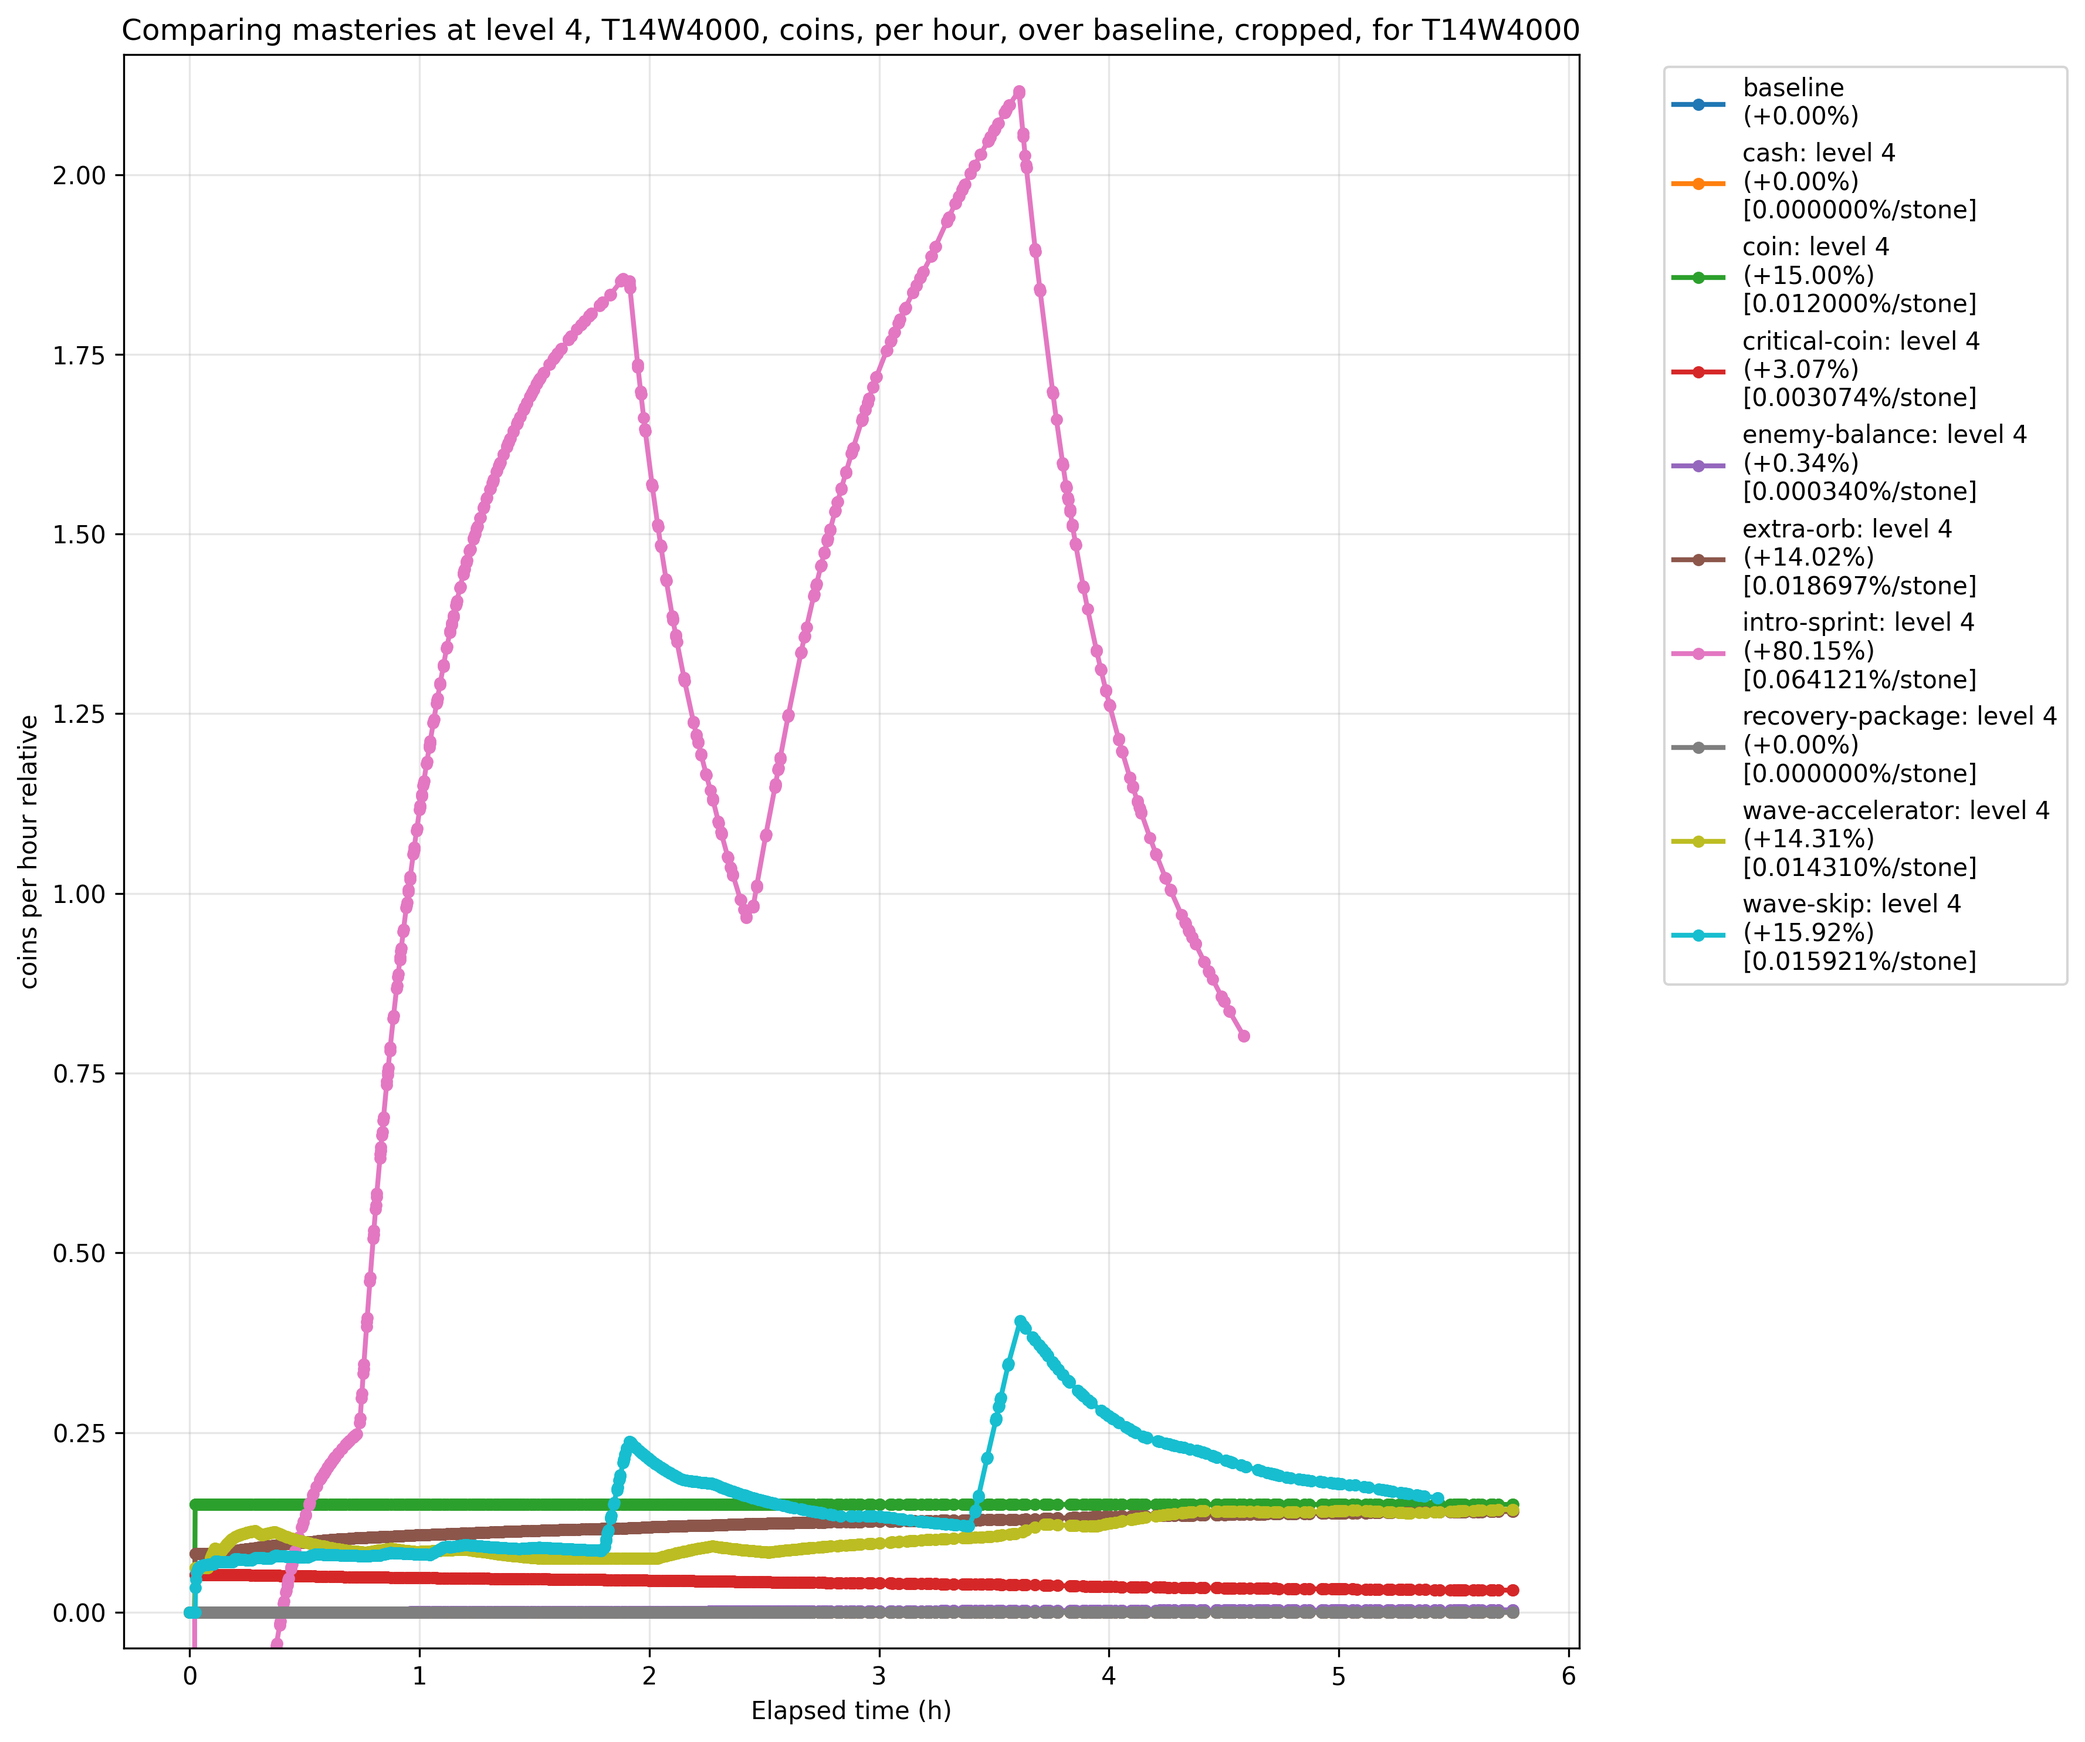
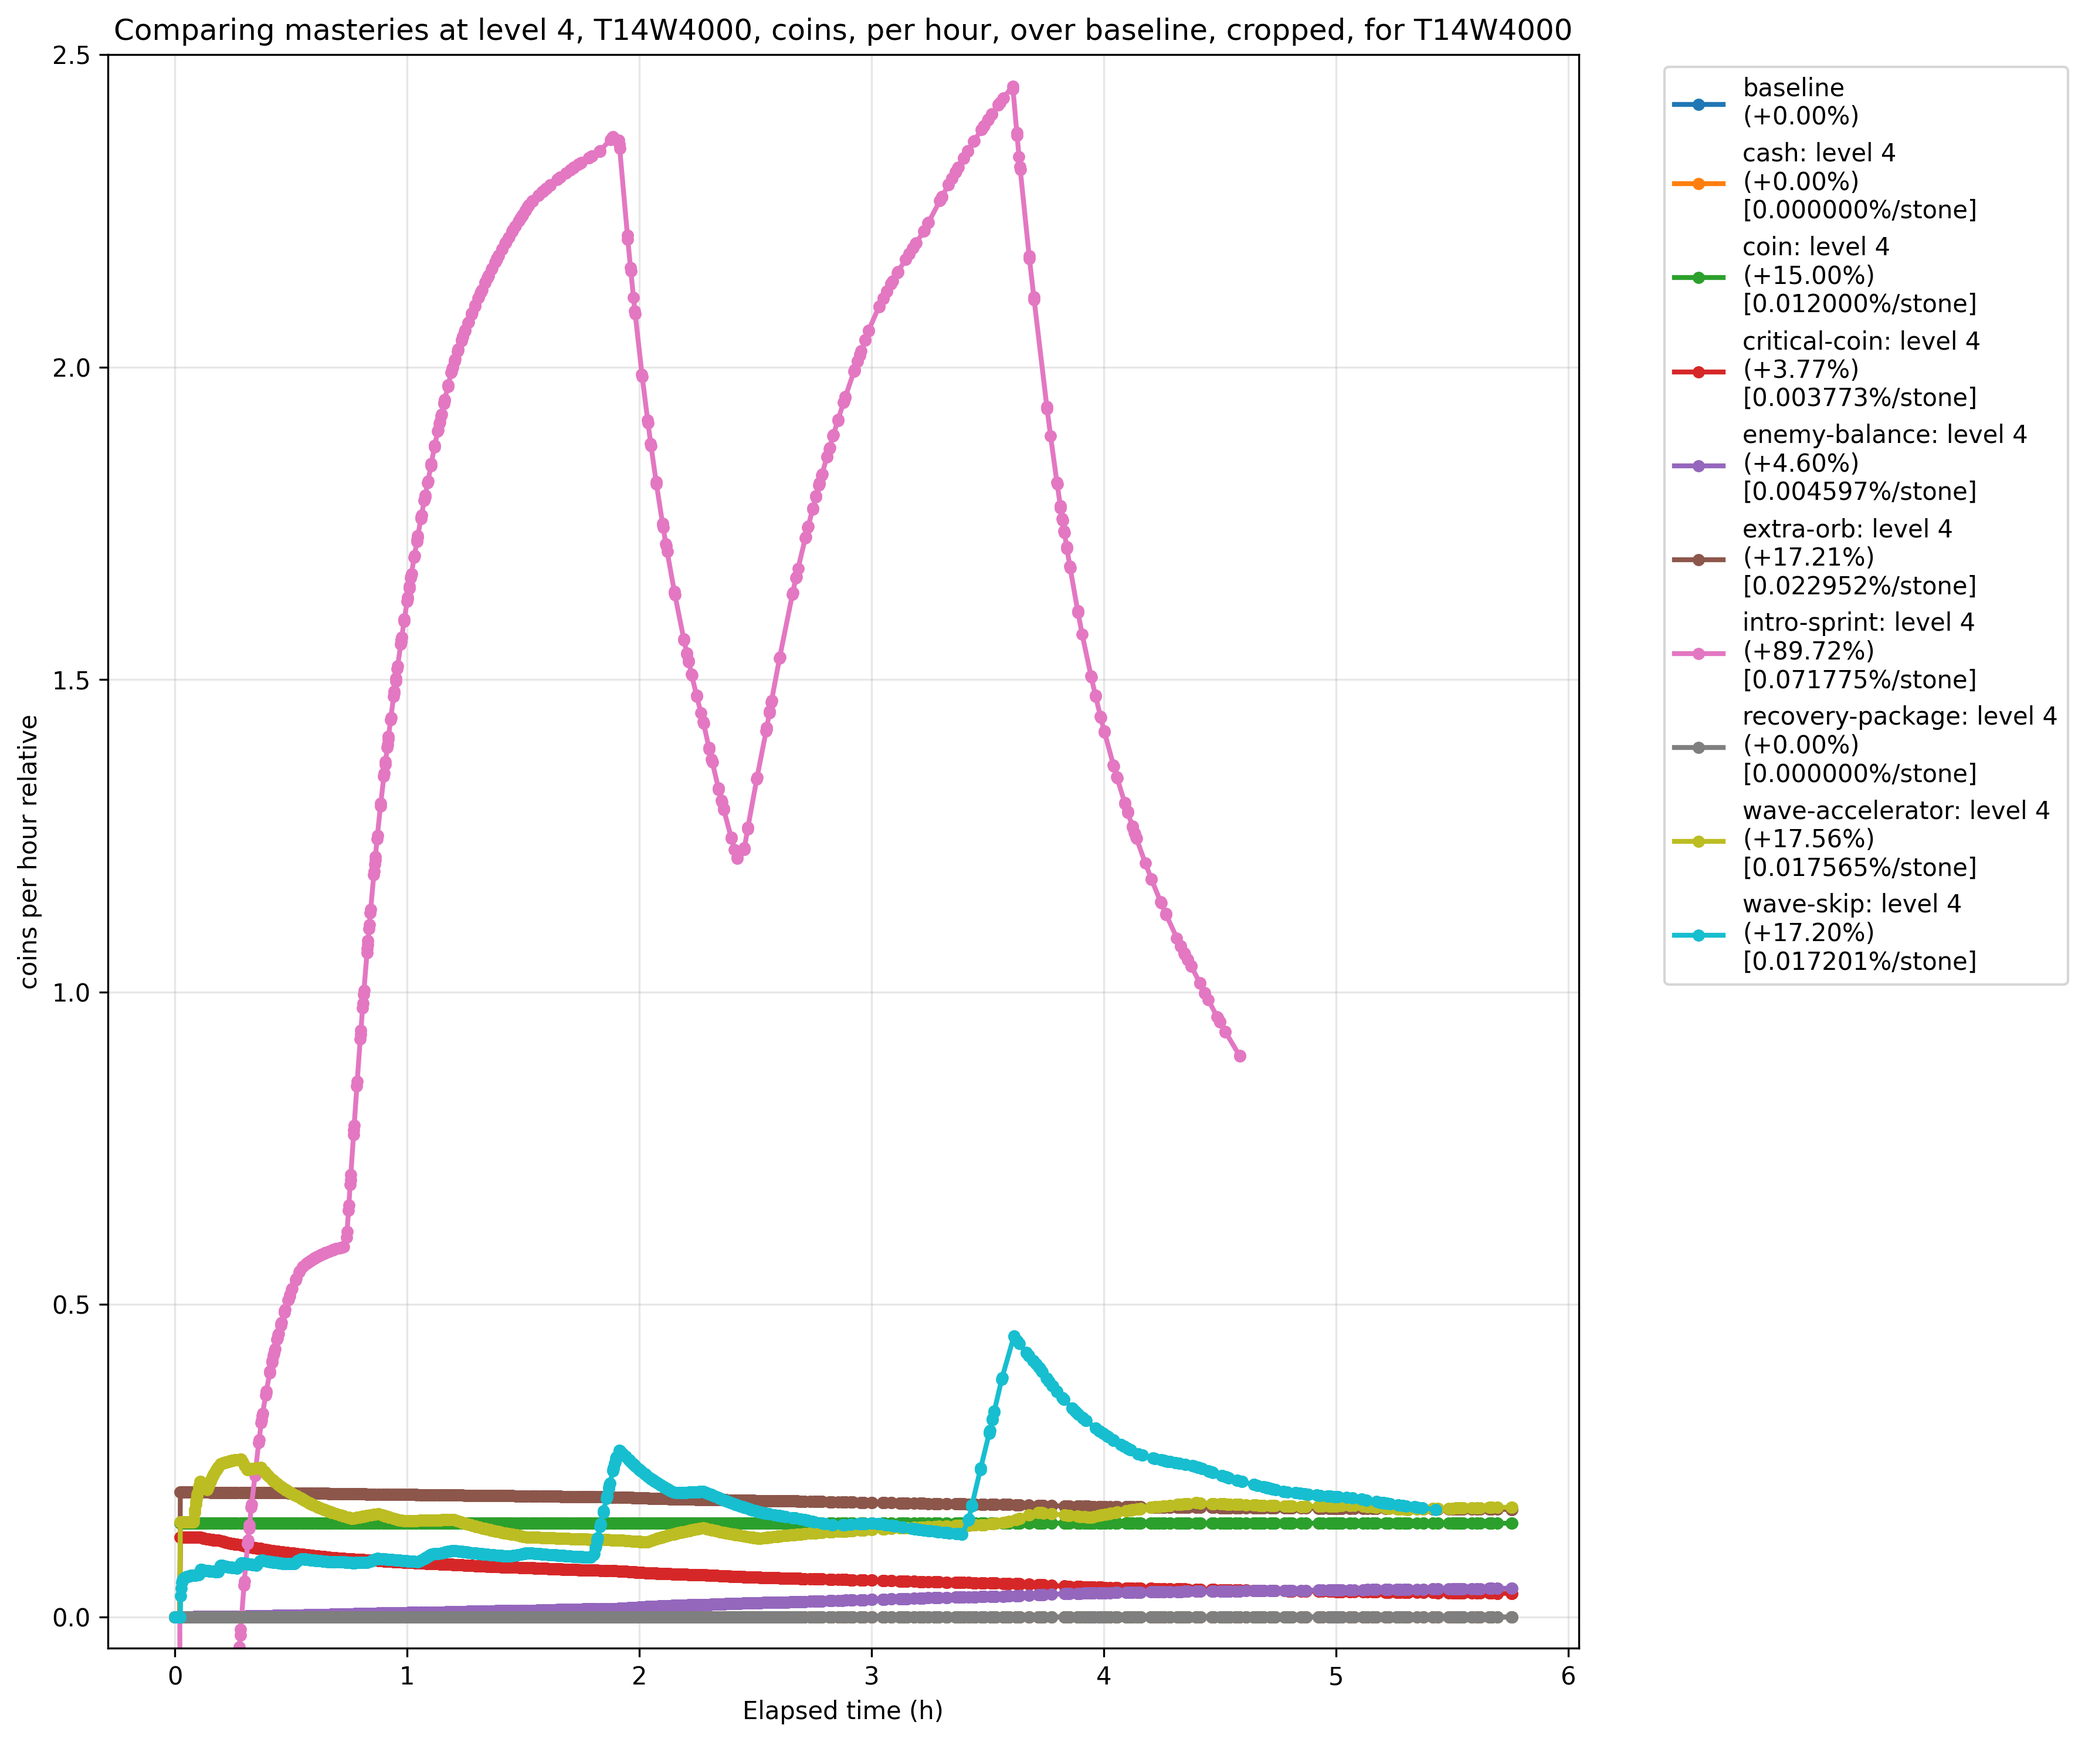
update figures for new readme

diff --git a/render_figures.py b/render_figures.py
@@ -93,10 +93,16 @@ def compare(
 
 def generate_commands(args: argparse.Namespace) -> Iterator[list[str]]:
     def coins_extra_names(level: int) -> str:
-        return "-".join([f"{m}{level}" for m in ["WA"]])
+        return "-".join([f"{m}{level}" for m in ["IS", "WA"]])
 
     def coins_extra_args(level: int) -> list[str]:
-        return [f"--{m}={level}" for m in ["wave-accelerator"]]
+        return [f"--{m}={level}" for m in ["intro-sprint", "wave-accelerator"]]
+
+    def cells_extra_names(level: int) -> str:
+        return "-".join([f"{m}{level}" for m in ["IS", "EB"]])
+
+    def cells_extra_args(level: int) -> list[str]:
+        return [f"--{m}={level}" for m in ["intro-sprint", "enemy-balance"]]
 
     def rerolls_extra_names(level: int) -> str:
         return "-".join([f"{m}{level}" for m in ["Cash", "EB"]])
@@ -104,103 +110,57 @@ def generate_commands(args: argparse.Namespace) -> Iterator[list[str]]:
     def rerolls_extra_args(level: int) -> list[str]:
         return [f"--{m}={level}" for m in ["cash", "enemy-balance"]]
 
+    def modules_extra_names(level: int) -> str:
+        return "-".join([f"{m}{level}" for m in ["IS", "RPC"]])
+
+    def modules_extra_args(level: int) -> list[str]:
+        return [f"--{m}={level}" for m in ["intro-sprint", "recovery-package"]]
+
     tiers_sims = {11: 10000, 12: 8000, 13: 6000, 14: 4000}
+    gt_sims = {0: "000", 0.15: "015", 0.30: "030", 0.45: "045"}
+    bhd_sims = {0: "0", 3: "3", 5: "5", 7: "7", 10: "10"}
     commands = [
-        tiers(
-            args,
-            list(tiers_sims.items()),
-            "coins",
-            extra_name=coins_extra_names(0),
-            extra_args=coins_extra_args(0),
-        ),
-        tiers(
-            args,
-            list(tiers_sims.items()),
-            "coins",
-            extra_name=coins_extra_names(4),
-            extra_args=coins_extra_args(4),
-        ),
-        tiers(
-            args,
-            list(tiers_sims.items()),
-            "coins",
-            extra_name=coins_extra_names(9),
-            extra_args=coins_extra_args(9),
-        ),
+        tiers(args, list(tiers_sims.items()), "coins"),
+        tiers(args, list(tiers_sims.items()), "coins", extra_name=coins_extra_names(0), extra_args=coins_extra_args(0)),
+        tiers(args, list(tiers_sims.items()), "coins", extra_name=coins_extra_names(9), extra_args=coins_extra_args(9)),
         tiers(args, list(tiers_sims.items()), "cells"),
-        tiers(
-            args,
-            list(tiers_sims.items()),
-            "rerolls",
-            extra_name=rerolls_extra_names(0),
-            extra_args=rerolls_extra_args(0),
-        ),
-        tiers(
-            args,
-            list(tiers_sims.items()),
-            "rerolls",
-            extra_name=rerolls_extra_names(9),
-            extra_args=rerolls_extra_args(9),
-        ),
-        compare(args, tiers_sims[11], 11, "cells", 0),
-        compare(args, tiers_sims[11], 11, "cells", 4),
-        compare(args, tiers_sims[11], 11, "cells", 9),
-        compare(args, tiers_sims[11], 11, "coins", 0),
-        compare(args, tiers_sims[11], 11, "coins", 0, extra_name="roi", extra_args=["--roi"]),
-        compare(args, tiers_sims[11], 11, "coins", 4),
-        compare(args, tiers_sims[11], 11, "coins", 4, extra_name="roi", extra_args=["--roi"]),
-        compare(args, tiers_sims[11], 11, "coins", 9),
-        compare(args, tiers_sims[11], 11, "coins", 9, extra_name="roi", extra_args=["--roi"]),
-        compare(args, tiers_sims[11], 11, "rerolls", 0),
-        compare(
-            args,
-            tiers_sims[11],
-            11,
-            "rerolls",
-            0,
-            extra_name="Cash0",
-            extra_args=["--rerolls-with-cash=0"],
-        ),
-        compare(
-            args,
-            tiers_sims[11],
-            11,
-            "rerolls",
-            4,
-            extra_name="Cash0",
-            extra_args=["--rerolls-with-cash=0"],
-        ),
-        compare(args, tiers_sims[11], 11, "modules", 0),
-        compare(args, tiers_sims[14], 14, "cells", 0),
-        compare(args, tiers_sims[14], 14, "cells", 4),
-        compare(args, tiers_sims[14], 14, "cells", 9),
-        compare(args, tiers_sims[14], 14, "coins", 0),
-        compare(args, tiers_sims[14], 14, "coins", 0, extra_name="roi", extra_args=["--roi"]),
-        compare(args, tiers_sims[14], 14, "coins", 4),
-        compare(args, tiers_sims[14], 14, "coins", 4, extra_name="roi", extra_args=["--roi"]),
-        compare(args, tiers_sims[14], 14, "coins", 9),
-        compare(args, tiers_sims[14], 14, "coins", 9, extra_name="roi", extra_args=["--roi"]),
-        compare(args, tiers_sims[14], 14, "rerolls", 0),
-        compare(
-            args,
-            tiers_sims[14],
-            14,
-            "rerolls",
-            0,
-            extra_name="Cash0",
-            extra_args=["--rerolls-with-cash=0"],
-        ),
-        compare(
-            args,
-            tiers_sims[14],
-            14,
-            "rerolls",
-            4,
-            extra_name="Cash0",
-            extra_args=["--rerolls-with-cash=0"],
-        ),
-        compare(args, tiers_sims[14], 14, "modules", 0),
+        tiers(args, list(tiers_sims.items()), "cells", extra_name=cells_extra_names(0), extra_args=cells_extra_args(0)),
+        tiers(args, list(tiers_sims.items()), "cells", extra_name=cells_extra_names(9), extra_args=cells_extra_args(9)),
+        tiers(args, list(tiers_sims.items()), "rerolls"),
+        tiers(args, list(tiers_sims.items()), "rerolls", extra_name=rerolls_extra_names(0), extra_args=rerolls_extra_args(0)),
+        tiers(args, list(tiers_sims.items()), "rerolls", extra_name=rerolls_extra_names(9), extra_args=rerolls_extra_args(9)),
+        tiers(args, list(tiers_sims.items()), "modules"),
+        tiers(args, list(tiers_sims.items()), "modules", extra_name=modules_extra_names(0), extra_args=modules_extra_args(0)),
+        tiers(args, list(tiers_sims.items()), "modules", extra_name=modules_extra_names(9), extra_args=modules_extra_args(9)),
     ]
+    for level in [2, 9]:
+        for gt, gt_name in gt_sims.items():
+            bhd = 7
+            bhd_name = bhd_sims[bhd]
+            commands += [
+                compare(args, tiers_sims[11], 11, "coins", level, extra_name=f"gt{gt_name}-roi", extra_args=[f"--golden-combo={gt}", "--roi"]),
+                compare(args, tiers_sims[14], 14, "coins", level, extra_name=f"gt{gt_name}-roi-noIS", extra_args=[f"--golden-combo={gt}", "--roi", "--omit=intro-sprint"]),
+                compare(args, tiers_sims[11], 11, "coins", level, extra_name=f"bhd{bhd_name}-gt{gt_name}-roi", extra_args=[f"--bhd={bhd}", f"--golden-combo={gt}", "--roi"]),
+                compare(args, tiers_sims[14], 14, "coins", level, extra_name=f"bhd{bhd_name}-gt{gt_name}-roi", extra_args=[f"--bhd={bhd}", f"--golden-combo={gt}", "--roi"]),
+                compare(args, tiers_sims[14], 14, "coins", level, extra_name=f"bhd{bhd_name}-gt{gt_name}-roi-noIS", extra_args=[f"--bhd={bhd}", f"--golden-combo={gt}", "--roi", "--omit=intro-sprint"]),
+            ]
+    for tier in [11, 14]:
+        for level in [2, 9]:
+            for bhd, bhd_name in bhd_sims.items():
+                commands += [
+                    compare(args, tiers_sims[tier], tier, "coins", level, extra_name=f"bhd{bhd_name}-roi", extra_args=[f"--bhd={bhd}", "--roi"]),
+                    compare(args, tiers_sims[tier], tier, "coins", level, extra_name=f"bhd{bhd_name}-roi-noIS", extra_args=[f"--bhd={bhd}", "--roi", "--omit=intro-sprint"]),
+                ]
+        for level in [0, 4, 9]:
+            commands += [
+                compare(args, tiers_sims[tier], tier, "cells", level),
+                compare(args, tiers_sims[tier], tier, "coins", level),
+                compare(args, tiers_sims[tier], tier, "coins", level, extra_name="roi", extra_args=["--roi"]),
+                compare(args, tiers_sims[tier], tier, "coins", level, extra_name="roi-noIS", extra_args=["--roi", "--omit=intro-sprint"]),
+                compare(args, tiers_sims[tier], tier, "rerolls", level),
+                compare(args, tiers_sims[tier], tier, "rerolls", level, extra_name="Cash0", extra_args=["--rerolls-with-cash=0"]),
+                compare(args, tiers_sims[tier], tier, "modules", level),
+            ]
 
     yield from [cli for cli in commands if cli is not None]
 
